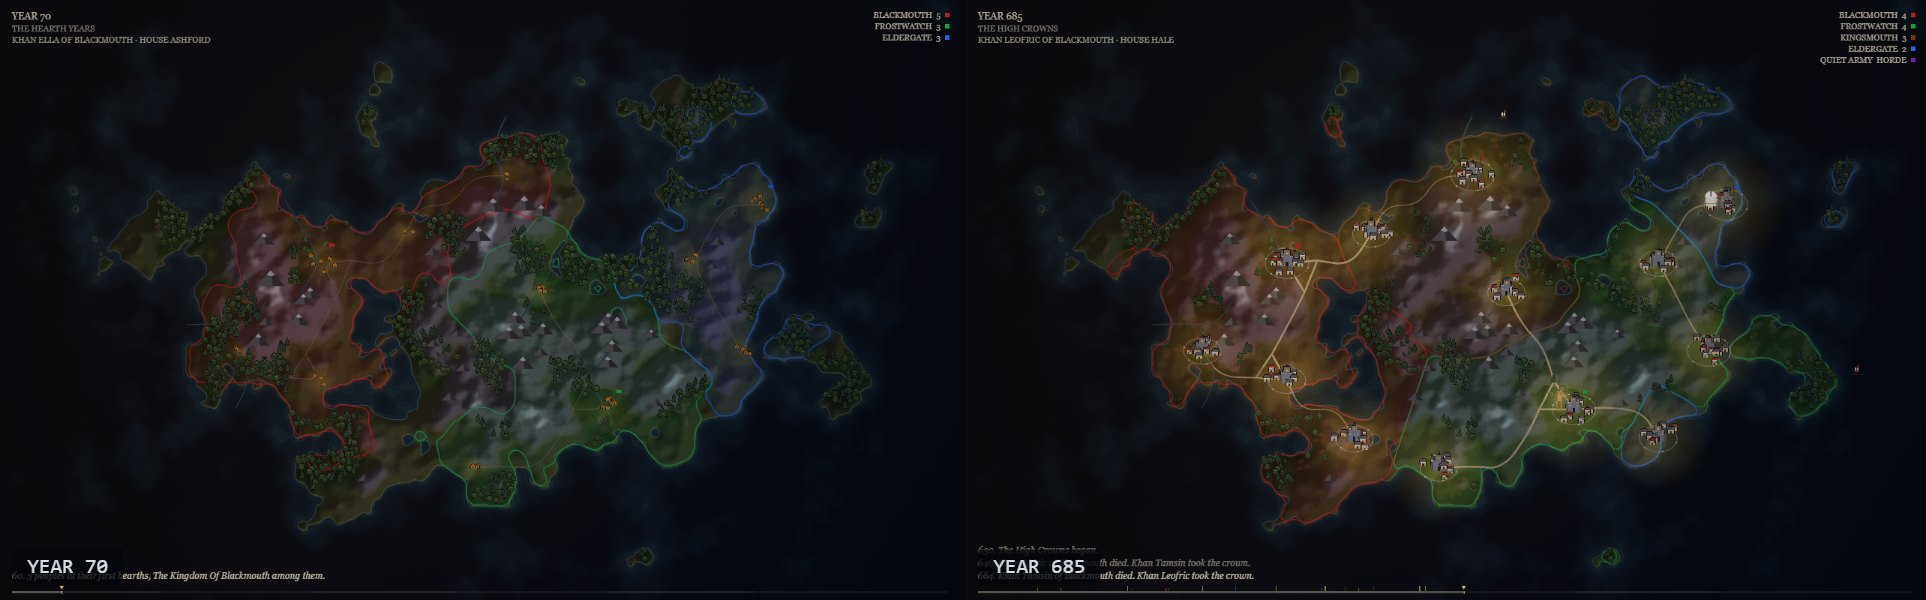
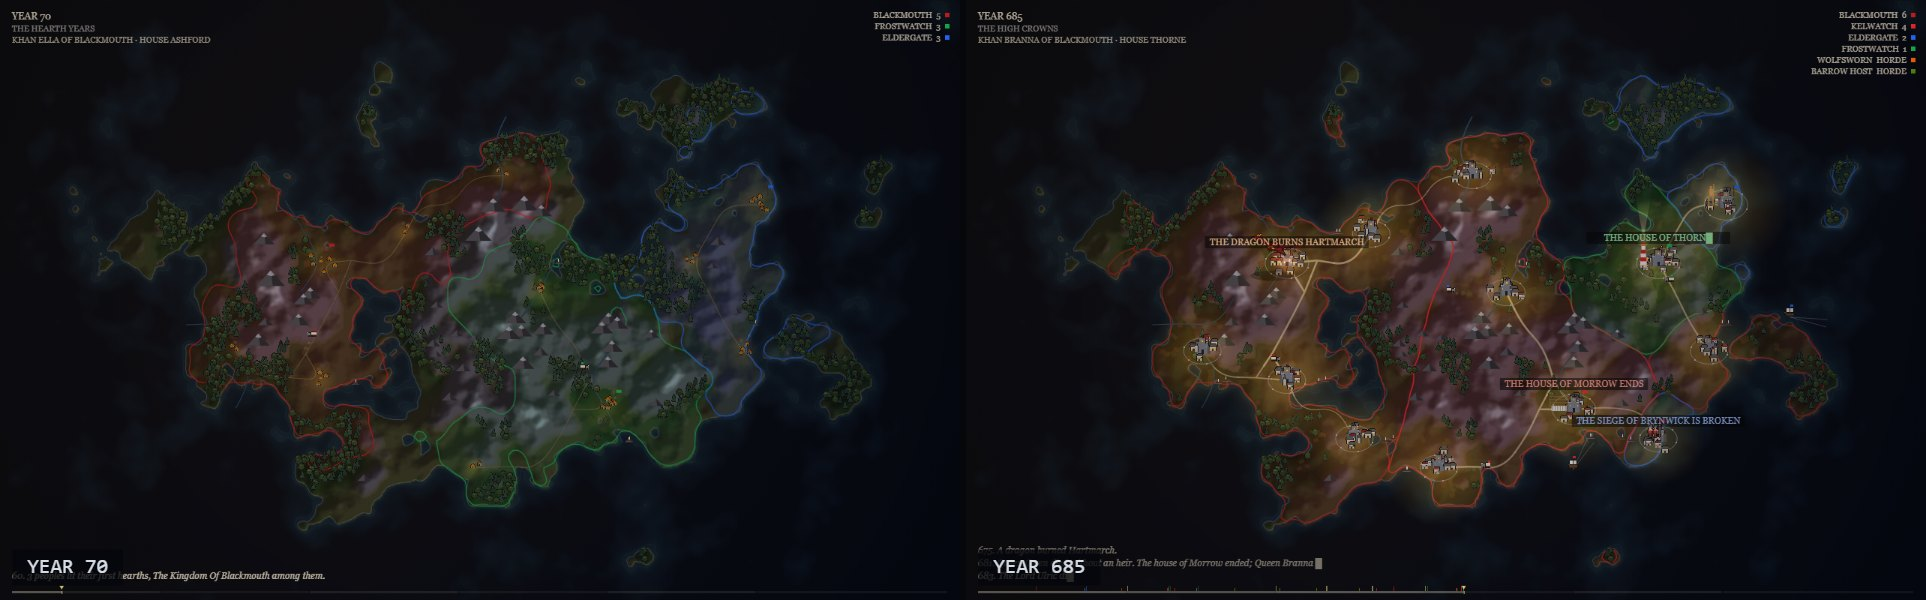
feat(worlds): a readable war table, and Ages busy to the eye
- War table: a note written where a newer one already speaks gives way
  (it fades as the new one is written), notes try just above or below
  their spot instead of stacking into columns, and old ones with no room
  are not written. At most six at once. The sim is unchanged.
- Ages: carts, ships, settlers and armies drawn larger than the towns
  they travel between; dust behind carts and marching armies, a wake
  behind ships, outlined banners. Smoke from the roofs (thick when a town
  burns) and fishing boats off coastal towns, drawn only. A few more
  caravans on the roads (up to 24). A lighter vignette.

diff --git a/src/engine/skins/fantasy/ages.ts b/src/engine/skins/fantasy/ages.ts
@@ -515,7 +515,7 @@ export function mount(host: SkinHost): SkinInstance {
     g.fillRect(0, 0, W, H);
     const v = g.createRadialGradient(W / 2, H / 2, Math.min(W, H) * 0.3, W / 2, H / 2, Math.hypot(W, H) * 0.62);
     v.addColorStop(0, 'rgba(2,3,6,0)');
-    v.addColorStop(1, 'rgba(2,3,6,0.55)');
+    v.addColorStop(1, 'rgba(2,3,6,0.4)');
     g.fillStyle = v;
     g.fillRect(0, 0, W, H);
     shade = { W, H, c };
@@ -862,45 +862,75 @@ export function mount(host: SkinHost): SkinInstance {
     }
   }
 
+  /** Where a walker was a moment ago, along its path: for wakes and dust. */
+  function behind(w: (typeof world.walkers)[number], back: number): [number, number] {
+    const at = Math.max(0, w.at - back);
+    const i = Math.floor(at);
+    const a = w.path[Math.min(w.path.length - 1, i)];
+    const b = w.path[Math.min(w.path.length - 1, i + 1)];
+    const k = at - i;
+    return [X(a.x + (b.x - a.x) * k), Y(a.y + (b.y - a.y) * k)];
+  }
+
   function walkers(t: number, p: number) {
     const s = scenery!;
     const list = [...world.walkers].sort((a, b) => a.y - b.y);
     const shipProp: Prop = world.era <= 2 ? 'galley' : world.era === 3 ? 'ship' : 'galleon';
+    // Movers are drawn a little larger than the towns they travel between, so the roads and
+    // the sea read as busy at a glance.
+    const q = p * 1.25;
     for (const w of list) {
       const x = X(w.x);
       const y = Y(w.y);
       if (w.kind === 'ship') {
         const bob = Math.sin(t * 2 + w.id) * 0.8;
-        // A wake behind it.
-        ctx.strokeStyle = 'rgba(203,213,225,0.15)';
+        // A wake: two lines opening out behind it.
+        const [bx, by] = behind(w, 1.2);
+        ctx.strokeStyle = 'rgba(203,213,225,0.28)';
+        ctx.lineWidth = 1;
         ctx.beginPath();
-        ctx.moveTo(x - 8, y + 2);
-        ctx.lineTo(x + 8, y + 2);
+        for (const side of [-1, 1]) {
+          const nx = -(by - y);
+          const ny = bx - x;
+          const nl = Math.hypot(nx, ny) || 1;
+          ctx.moveTo(x, y + 2);
+          ctx.lineTo(bx + (nx / nl) * 5 * side, by + 2 + (ny / nl) * 5 * side);
+        }
         ctx.stroke();
-        stampProp(ctx, s, shipProp, 0, x, y + bob, p * 0.8);
+        stampProp(ctx, s, shipProp, 0, x, y + bob, q);
         ctx.fillStyle = w.owner.color;
-        ctx.fillRect(Math.round(x), Math.round(y - 10 * p + bob), 3, 2);
+        ctx.fillRect(Math.round(x), Math.round(y - 12 * q + bob), 4, 3);
         continue;
       }
       const next = w.path[Math.min(w.path.length - 1, Math.floor(w.at) + 1)];
       const flip = X(next.x) < x;
+      // Dust on the road behind carts and marching armies.
+      if (w.kind === 'caravan' || (w.kind === 'army' && w.state !== 'battle' && w.state !== 'siege')) {
+        for (let k = 1; k <= 3; k++) {
+          const [dx, dy] = behind(w, k * 0.18);
+          ctx.fillStyle = `rgba(214,200,170,${(0.22 - k * 0.05).toFixed(3)})`;
+          ctx.beginPath();
+          ctx.arc(dx, dy + 1, 1.2 + k * 0.9, 0, Math.PI * 2);
+          ctx.fill();
+        }
+      }
       if (w.kind === 'caravan') {
         ctx.save();
         if (flip) {
           ctx.translate(x * 2, 0);
           ctx.scale(-1, 1);
         }
-        stampProp(ctx, s, 'cart', 0, x, y + Math.round(Math.sin(t * 6 + w.id) * 0.4), p * 0.65);
+        stampProp(ctx, s, 'cart', 0, x, y + Math.round(Math.sin(t * 6 + w.id) * 0.4), q * 0.85);
         ctx.restore();
         ctx.fillStyle = w.owner.color;
-        ctx.fillRect(Math.round(x + (flip ? -4 : 2)), Math.round(y - 7 * p), 2, 2);
+        ctx.fillRect(Math.round(x + (flip ? -5 : 2)), Math.round(y - 8 * q), 3, 3);
         continue;
       }
       const a = atlasFor(w.owner);
       const walk = Math.floor(t * 6 + w.id) % 2;
       if (w.kind === 'settlers') {
-        stamp(ctx, a, 'peasant', walk, flip, x - 4, y, p * 0.8, 0);
-        stamp(ctx, a, 'peasant', 1 - walk, flip, x + 4, y + 2, p * 0.8, 1);
+        stamp(ctx, a, 'peasant', walk, flip, x - 5, y, q * 0.9, 0);
+        stamp(ctx, a, 'peasant', 1 - walk, flip, x + 5, y + 2, q * 0.9, 1);
         continue;
       }
       // An army: a few men stand for many, a banner over them.
@@ -909,12 +939,16 @@ export function mount(host: SkinHost): SkinInstance {
       for (let i = 0; i < n; i++) {
         const kind = i === 0 && w.size > 120 ? 'cav' : i % 3 === 2 ? 'arch' : 'inf';
         const frame = fighting && hash(w.id, i, Math.floor(t * 3)) < 0.5 ? 2 : walk;
-        stamp(ctx, a, kind, kind === 'cav' ? Math.floor(t * 8) % 3 : frame, flip, x + ((i % 4) - 1.5) * 6, y + Math.floor(i / 4) * 5 - 2, p * 0.8, i);
+        stamp(ctx, a, kind, kind === 'cav' ? Math.floor(t * 8) % 3 : frame, flip, x + ((i % 4) - 1.5) * 7, y + Math.floor(i / 4) * 6 - 2, q * 0.9, i);
       }
+      // The banner over them, outlined so it reads on any land.
+      const fy = Math.round(y - 26 + Math.sin(t * 5 + w.id));
       ctx.fillStyle = '#3f2a17';
-      ctx.fillRect(Math.round(x), Math.round(y - 22), 1, 14);
+      ctx.fillRect(Math.round(x), Math.round(y - 26), 1, 18);
+      ctx.fillStyle = 'rgba(20,14,8,0.7)';
+      ctx.fillRect(Math.round(x), fy - 1, 11, 7);
       ctx.fillStyle = w.owner.color;
-      ctx.fillRect(Math.round(x) + 1, Math.round(y - 22 + Math.sin(t * 5 + w.id)), 7, 4);
+      ctx.fillRect(Math.round(x) + 1, fy, 9, 5);
       if (w.state === 'battle') {
         ctx.save();
         ctx.globalCompositeOperation = 'lighter';
@@ -928,6 +962,57 @@ export function mount(host: SkinHost): SkinInstance {
         ctx.beginPath();
         ctx.ellipse(x, y, 22, 10, 0, 0, Math.PI * 2);
         ctx.fill();
+      }
+    }
+  }
+
+  // ---- life between the events: smoke from the roofs, boats off the coast (drawn only) --------
+  let coastGen = -1;
+  const coast = new Map<number, [number, number] | null>();
+  let tileByKey: Map<string, (typeof world.tiles)[number]> | null = null;
+  /** A water tile next to a town, for its fishing boats (null inland). */
+  function waterBy(town: (typeof world.towns)[number]): [number, number] | null {
+    if (coastGen !== world.landVersion) {
+      coastGen = world.landVersion;
+      coast.clear();
+      tileByKey = new Map(world.tiles.map((x) => [`${x.q},${x.r}`, x]));
+    }
+    const known = coast.get(town.id);
+    if (known !== undefined) return known;
+    const wet = world.grid.neighbors(town.tile).map((c) => tileByKey!.get(`${c.q},${c.r}`)).find((x) => x && (x.terrain === 'sea' || x.terrain === 'coast'));
+    const at: [number, number] | null = wet ? [wet.x, wet.y] : null;
+    coast.set(town.id, at);
+    return at;
+  }
+  function life(t: number, p: number) {
+    for (const town of world.towns) {
+      if (town.ruined) continue;
+      const cx = X(town.tile.x);
+      const cy = Y(town.tile.y);
+      // Smoke, a wisp a house, rising and fading (thick when the town burns).
+      const n = Math.min(town.houses.length, Math.min(3, town.tier + 1) + (town.burning > world.year ? 3 : 0));
+      for (let i = 0; i < n; i++) {
+        const h = town.houses[i];
+        const ph = ((t / 3.5 + hash(town.seed, i)) % 1 + 1) % 1;
+        const drift = hash(town.seed, i, 7) < 0.5 ? -1 : 1;
+        ctx.fillStyle = `rgba(205,200,190,${(0.24 * (1 - ph)).toFixed(3)})`;
+        ctx.beginPath();
+        ctx.arc(cx + h[0] * 0.7 + ph * 5 * drift, cy + h[1] * 0.7 - 6 - ph * 16, 1.2 + ph * 3, 0, Math.PI * 2);
+        ctx.fill();
+      }
+      // Fishing boats off a coastal town, working the water by it.
+      const w = town.tier >= 1 ? waterBy(town) : null;
+      if (!w) continue;
+      for (let i = 0; i < Math.min(2, town.tier); i++) {
+        const ph = t * 0.12 + hash(town.seed, i, 3) * 6.28;
+        const bx = X(w[0]) + Math.cos(ph) * 6 + (hash(town.seed, i, 4) - 0.5) * 8;
+        const by = Y(w[1]) + Math.sin(ph) * 3 + Math.sin(t * 2 + i) * 0.5;
+        ctx.fillStyle = '#4a3020';
+        ctx.fillRect(Math.round(bx - 3 * p), Math.round(by), Math.round(6 * p), Math.max(1, Math.round(2 * p)));
+        ctx.fillStyle = 'rgba(231,229,228,0.9)';
+        ctx.fillRect(Math.round(bx), Math.round(by - 4 * p), Math.max(1, Math.round(p)), Math.round(4 * p));
+        ctx.fillStyle = 'rgba(203,213,225,0.18)';
+        ctx.fillRect(Math.round(bx - 5 * p), Math.round(by + 2 * p), Math.round(10 * p), 1);
       }
     }
   }
@@ -1162,6 +1247,7 @@ export function mount(host: SkinHost): SkinInstance {
       ctx.drawImage(features!.c, 0, 0, W, H);
       ctx.imageSmoothingEnabled = false;
       towns(t, p);
+      life(t, p);
       marks(t);
       walkers(t, p);
       dragon(t, p);

diff --git a/src/engine/skins/fantasy/table.ts b/src/engine/skins/fantasy/table.ts
@@ -1247,21 +1247,31 @@ export function mount(host: SkinHost): SkinInstance {
     ctx.textAlign = 'center';
     ctx.textBaseline = 'alphabetic';
     ctx.font = serif(13, true);
+    // Newest first: a new note has the place; an older one written at the same spot gives way
+    // (it fades as the new one is written), and an old one with no room left is not written.
     const placed: [number, number, number][] = [];
-    for (const n of world.notes) {
+    const spoken: { x: number; y: number; t0: number }[] = [];
+    const live = world.notes.filter((n) => t - n.t0 >= 0 && t - n.t0 < 26).reverse();
+    for (const [k, n] of live.entries()) {
       const age = t - n.t0;
-      const a = Math.min(1, age * 1.5) * Math.max(0, Math.min(1, (26 - age) / 6)) * level;
-      if (a <= 0) continue;
+      let a = Math.min(1, age * 1.5) * Math.max(0, Math.min(1, (26 - age) / 6)) * level;
+      const newer = spoken.find((s) => Math.hypot(s.x - n.x, s.y - n.y) < 110);
+      spoken.push({ x: n.x, y: n.y, t0: n.t0 });
+      if (newer) a *= Math.max(0, 1 - (t - newer.t0) / 1.5);
+      if (a <= 0.01 || k >= 6) continue;
       const chars = Math.floor(age * 24);
       const text = n.text.slice(0, chars);
-      // Written where there is room: below an earlier note, not over it.
       const w = ctx.measureText(n.text).width;
       const x = Math.max(w / 2 + 16, Math.min(W - w / 2 - 16, n.x));
-      let y = Math.max(70, Math.min(H - 40, n.y));
-      for (let tries = 0; tries < 8 && placed.some(([px, py, pw]) => Math.abs(px - x) < (pw + w) / 2 + 6 && Math.abs(py - y) < 17); tries++) y += 17;
-      placed.push([x, y, w]);
+      const y0 = Math.max(70, Math.min(H - 40, n.y));
+      const clash = (y: number) => placed.some(([px, py, pw]) => Math.abs(px - x) < (pw + w) / 2 + 8 && Math.abs(py - y) < 18);
+      // Where there is room: on the spot, then just above or below it.
+      const y = [0, -19, 19, -38, 38].map((d) => y0 + d).find((yy) => yy > 60 && yy < H - 30 && !clash(yy));
+      if (y === undefined && k > 0) continue;
+      const yy = y ?? y0;
+      placed.push([x, yy, w]);
       ctx.save();
-      ctx.translate(x, y);
+      ctx.translate(x, yy);
       ctx.rotate(n.angle);
       ctx.font = serif(13, true);
       ctx.fillStyle = hexA(n.ink, 0.92 * a);

diff --git a/src/engine/skins/fantasy/ages-sim.ts b/src/engine/skins/fantasy/ages-sim.ts
@@ -881,7 +881,7 @@ export function createAgesWorld(seed: string | number, W: number, H: number, noi
       const home = k.towns.filter((t) => !t.ruined && t.pop > 40).sort((a, b) => b.pop - a.pop)[0];
       if (!settling && home && r() < dy * 0.14) sendSettlers(k, home);
       // Trade: caravans on the roads, and ships once there are ports (oared at first).
-      if (r() < dy * 0.07 && world.walkers.filter((w) => w.kind === 'caravan').length < 16) sendCaravan(k);
+      if (r() < dy * 0.1 && world.walkers.filter((w) => w.kind === 'caravan').length < 24) sendCaravan(k);
       if (world.era >= 1 && r() < dy * (0.025 + world.era * 0.01) && world.walkers.filter((w) => w.kind === 'ship').length < 10) sendShip(k);
     }
   }
